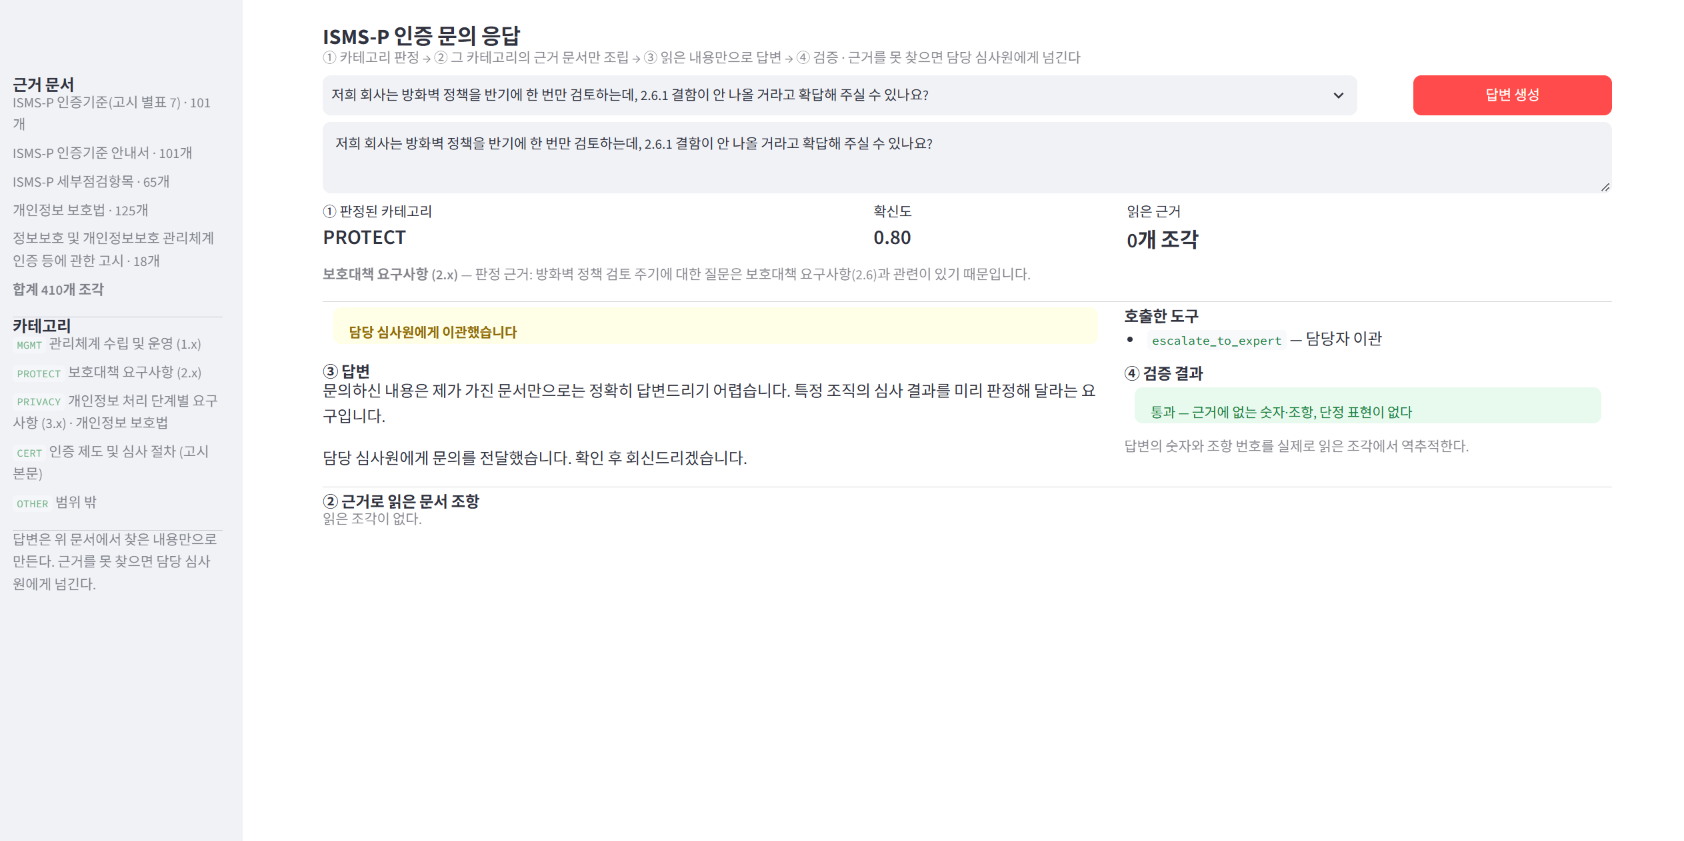
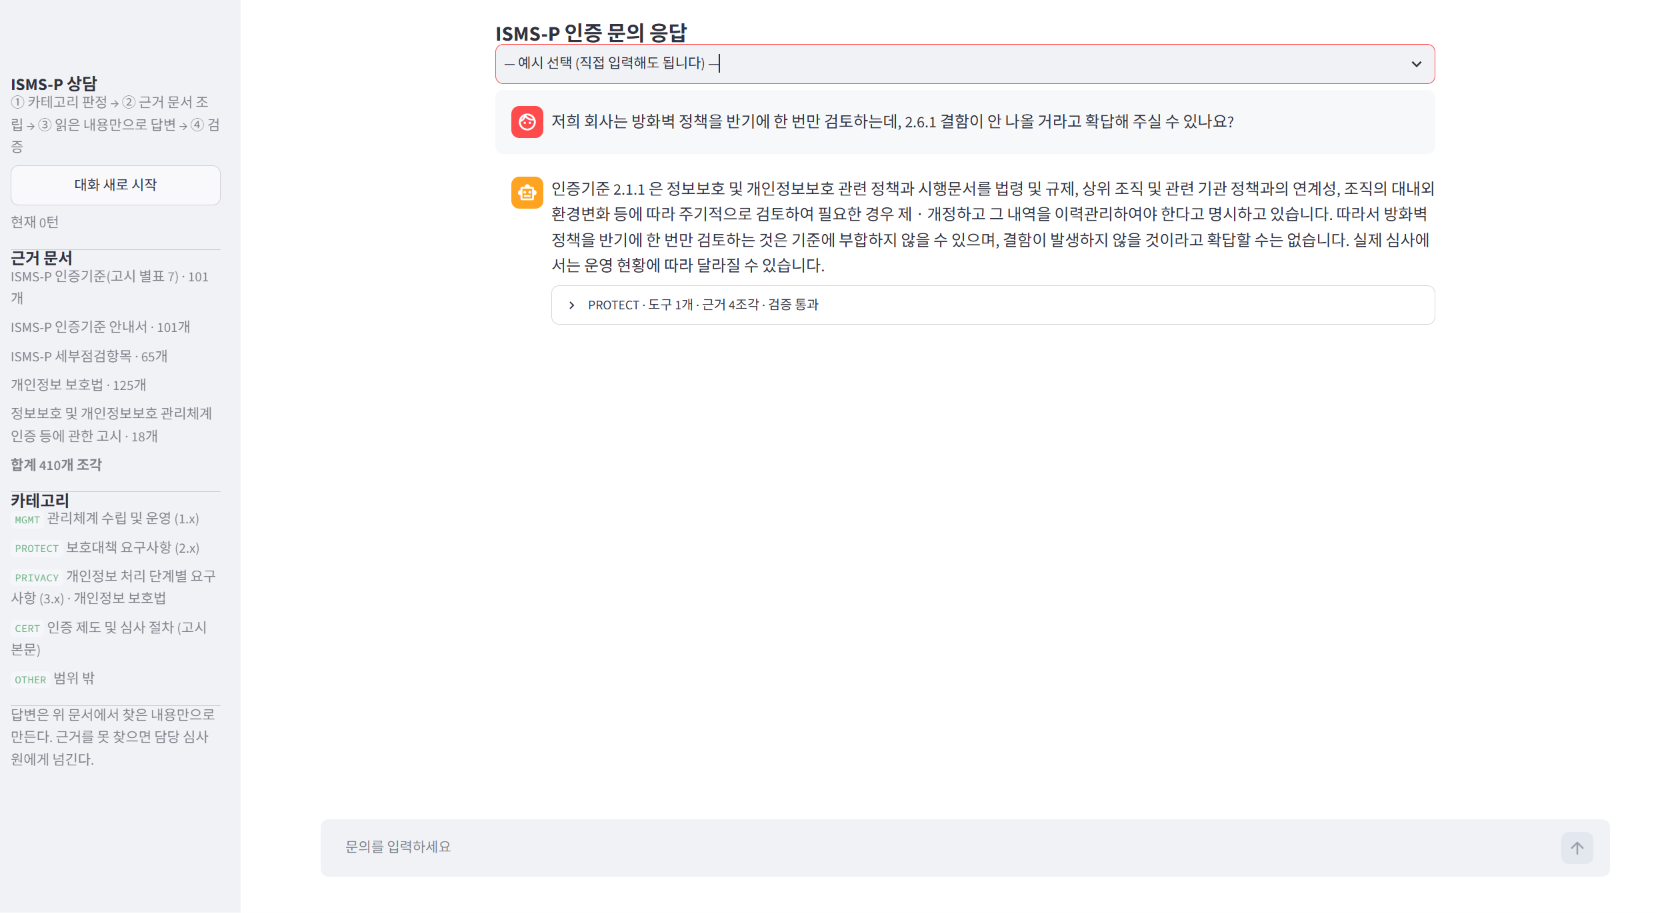
챗봇 화면 캡처를 새로 넣고, 데모 절과 회귀를 정직하게 다시 쓴다
캡처가 챗봇 전환 이전(단일 질문 폼) 것이라 REPORT 6절 설명과 어긋나 있었다.
멀티턴 캡처를 새로 넣고 6절을 챗봇 기준으로 다시 썼다.

두 번째 캡처는 평가셋이 기대하는 동작이 아니다. G-20(2.6.1 결함 확답 요구)이
이관에서 답변으로 회귀했다. 검색어 정규화에서 조항 번호를 감지해 그 조항 제목을
붙여 주는 기능이 근거 목차를 그럴듯하게 만들어, 모델이 답할 수 있다고 판단하게
만든 것으로 보인다. nudge 문구와 축약어 사전에서 후보 원인 둘을 걷어냈지만
아직 돌아오지 않았다.

평가셋을 고쳐 맞추지 않고 회귀로 남긴다. 이 리포트에서 두 번이나 '실패를 본 뒤에
기준을 느슨하게 하는 것이 과적합을 만드는 방법' 이라고 적었으므로, 여기서 G-20 의
정답을 바꾸면 그 말이 무의미해진다. 대신 이관과 거절 중 무엇이 맞는지를 설계
질문으로 남겼다.

같이 고친 것
 - nudge 문구가 '넘기지 마라' 로 이관 경로를 막고 있었다. 도구 호출과
   escalate_to_expert 두 길을 다 열어 고르게 했다.
 - 사이드바 턴 수가 한 박자 늦게 보였다. 답변을 담은 뒤 다시 그린다.
 - 축약어 사전에서 '결함' 을 뺐다. 근거가 있어서 넣은 게 아니라 있을 법해서
   넣었던 항목이다.

전체 25건 최신 수치: 도구 86.7% · 답변 65.3% · 분류 100%

diff --git a/agent.py b/agent.py
@@ -273,11 +273,19 @@ def node_nudge(state):
 
     목차에 이미 후보 조항이 올라와 있으므로, 검색어까지 짚어 주면 거의 확실히 부른다.
     한 번만 한다(nudged). 두 번 되돌려도 안 부르면 그때는 근거 없이 갈 수밖에 없다.
+
+    막으려는 것은 **근거 없이 지어낸 답**이지 넘기기가 아니다.
+    처음에는 "넘기지 마라" 라고 적었다가, 개별 조직의 결함 여부를 확답해 달라는 문의까지
+    억지로 검색시켜 답하게 만들었다. 두 길을 다 열어 두고 고르게 해야 한다.
     """
     return {"nudged": True, "messages": [HumanMessage(
-        "아직 문서를 하나도 열지 않았다. 네가 아는 지식으로 답하거나 넘기지 마라.\n"
-        "위 목차에 올라온 조항 중 문의에 가장 가까운 것을 골라, 그 조항 제목에 나온 "
-        "낱말을 검색어로 삼아 도구를 **반드시 한 번** 불러라.")]}
+        "아직 문서를 하나도 열지 않았다. 네가 아는 지식만으로 답하지 마라.\n"
+        "둘 중 하나를 골라라.\n"
+        "  (1) 문서로 답할 수 있는 문의다 → 위 목차에서 문의에 가장 가까운 조항을 골라, "
+        "그 조항 제목에 나온 낱말을 검색어로 삼아 도구를 한 번 불러라.\n"
+        "  (2) 문서로 답할 수 없는 문의다(개별 조직의 심사 결과 확답, 범위 밖 주제 등) "
+        "→ escalate_to_expert 를 불러라.\n"
+        "둘 다 하지 않고 그냥 글로 답하지는 마라.")]}
 
 
 def node_hint(state):

diff --git a/corpus.py b/corpus.py
@@ -128,8 +128,10 @@ _ABBREV = {
     "개인정보처리방침": "개인정보 처리방침",
     "과태료": "과태료 벌칙",
     "유출사고": "개인정보 유출 통지 신고",
-    "결함": "결함 심사 확인사항",
 }
+# "결함" 은 일부러 넣지 않는다. 근거가 있어서 넣은 게 아니라 있을 법해서 넣었다가,
+# "우리 회사가 결함 안 나온다고 확답해 달라" 는 **넘겨야 할** 문의에까지 그럴듯한 조항을
+# 올려 주어 모델이 답하도록 유인했다. 검색을 도우려던 항목이 이관 판단을 망가뜨린 것이다.
 
 # 문의에 적힌 인증기준 번호(3.1.1)와 조문 번호(제15조)
 _NUM_IN_Q = re.compile(r"(?<!\d)\d\.\d{1,2}(?:\.\d{1,2})?(?!\d)|제\s?\d+조(?:의\s?\d+)?")

diff --git a/app.py b/app.py
@@ -198,3 +198,6 @@ if question:
 
     st.session_state.turns.append(
         {"question": question, "answer": r["answer"], "meta": meta})
+    # 사이드바는 이 턴을 담기 전에 이미 그려졌다. 그대로 두면 턴 수가 한 박자 늦게 보인다.
+    # 다시 그리면 대화 전체가 위의 반복문 한 곳에서만 그려져 화면도 일관해진다.
+    st.rerun()
